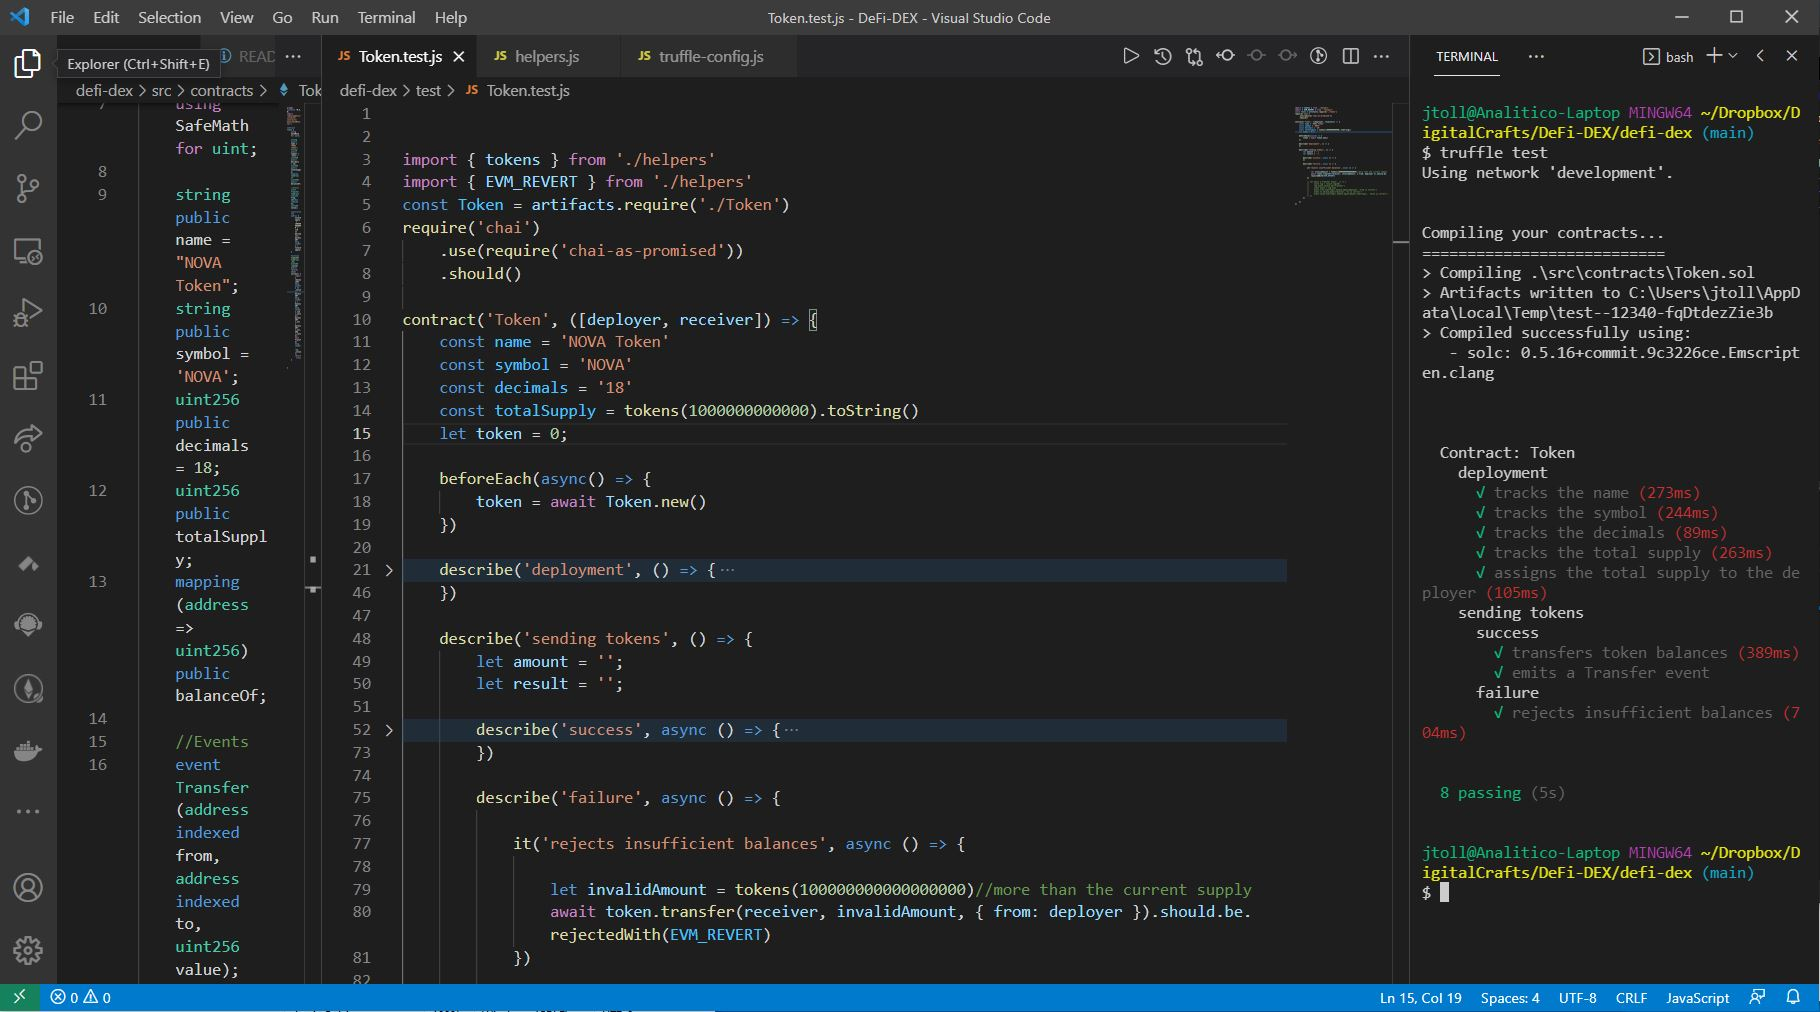
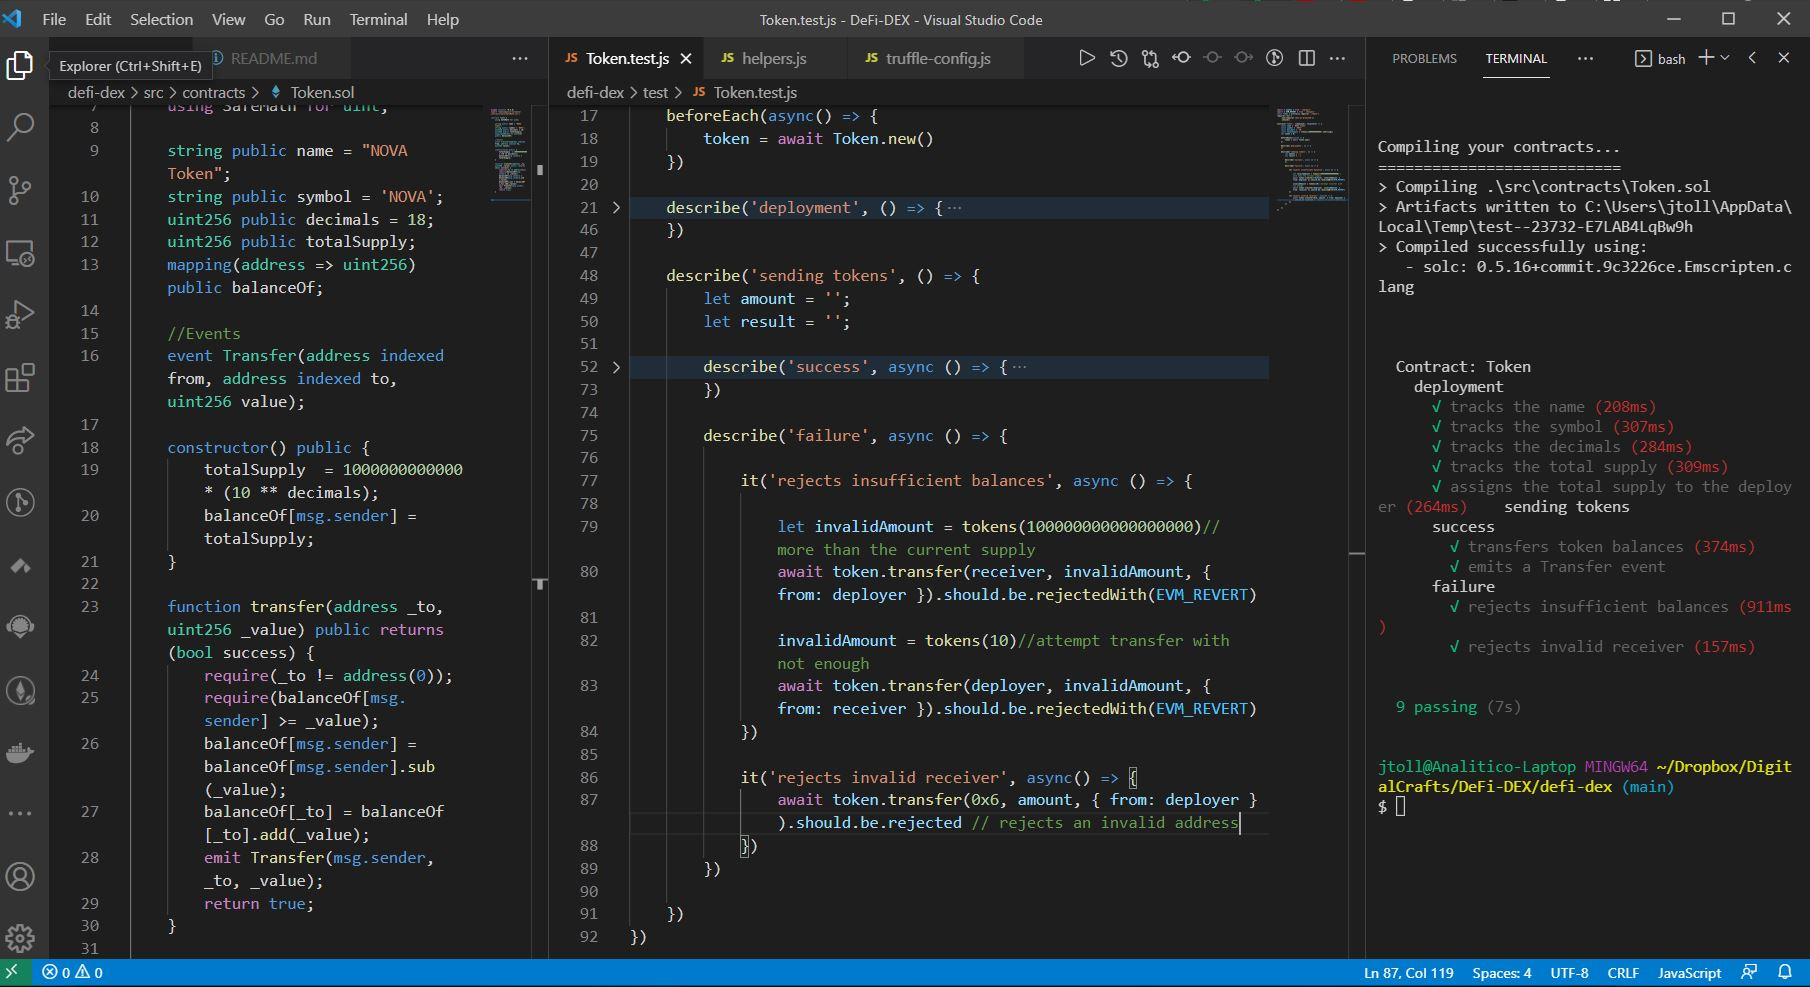
updated Token.sol/tests/readme.md

diff --git a/test/Token.test.js b/test/Token.test.js
@@ -78,16 +78,14 @@ contract('Token', ([deployer, receiver]) => {
                 
                 let invalidAmount = tokens(100000000000000000)//more than the current supply
                 await token.transfer(receiver, invalidAmount, { from: deployer }).should.be.rejectedWith(EVM_REVERT)
+                
+                invalidAmount = tokens(10)//attempt transfer with not enough 
+                await token.transfer(deployer, invalidAmount, { from: receiver }).should.be.rejectedWith(EVM_REVERT)
             })
 
-            // it('emits a Transfer event', () => {
-            //     const log = result.logs[0]
-            //     log.event.should.eq('Transfer')
-            //     const event = log.args
-            //     event.from.toString().should.equal(deployer, 'from is correct')
-            //     event.to.should.equal(receiver, 'to is correct')
-            //     event.value.toString().should.equal(amount.toString(), 'value is correct')
-            // })
+            it('rejects invalid receiver', async() => {
+                await token.transfer(0x6, amount, { from: deployer }).should.be.rejected // rejects an invalid address
+            })
         })
 
     })

diff --git a/README.md b/README.md
@@ -1,5 +1,10 @@
 1. The Purpose of the app is to build a Decentralized Finance (DeFi) Application (DApp) known as a Decentralized Exchange (DEX). This app will be built on the Test Network of the blockchain and will be fully compatible and functional for the Main Network.  This app will serve as a test case for the creation of a Smart Contract ERC20 Token and a DEX. Internal testing of blockchain operation and security using Mocha and Chai is implemented into the Master Plan for developing the app. People and businesses will be able to swap tokens and conduct other types of blockchain transactions via a Frontend Portal or by executing smart contract calls built on their application such as a trading bot, etc.
 
+    Testing was conducted during each step of the Token development and throughout the project to ensure that all functions worked properly and that there was not exposure to potential exploits in the code due to mathermatical errors or potential calculation exploits.
+
+    There are screenshots of the testing in https://github.com/AnaIitico/DeFi-DEX/tree/main/public/images/project_images/testingtesting/
+    
+
 2. Layout and user functionality 
     TBD
 3. M.V.P
